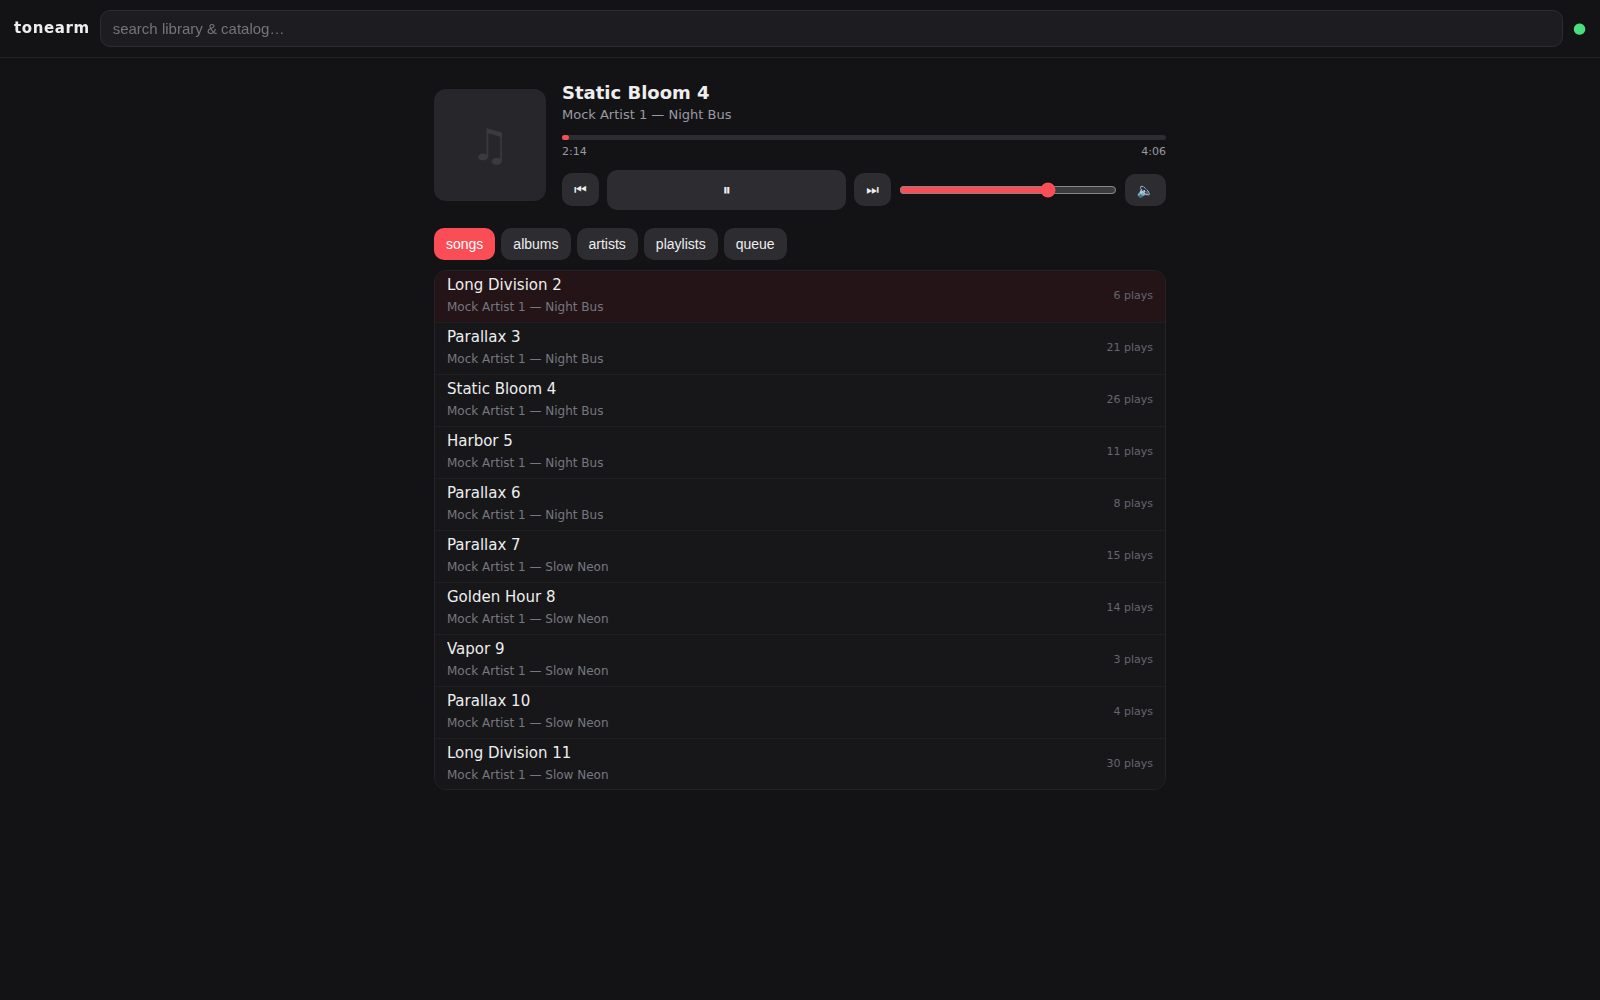
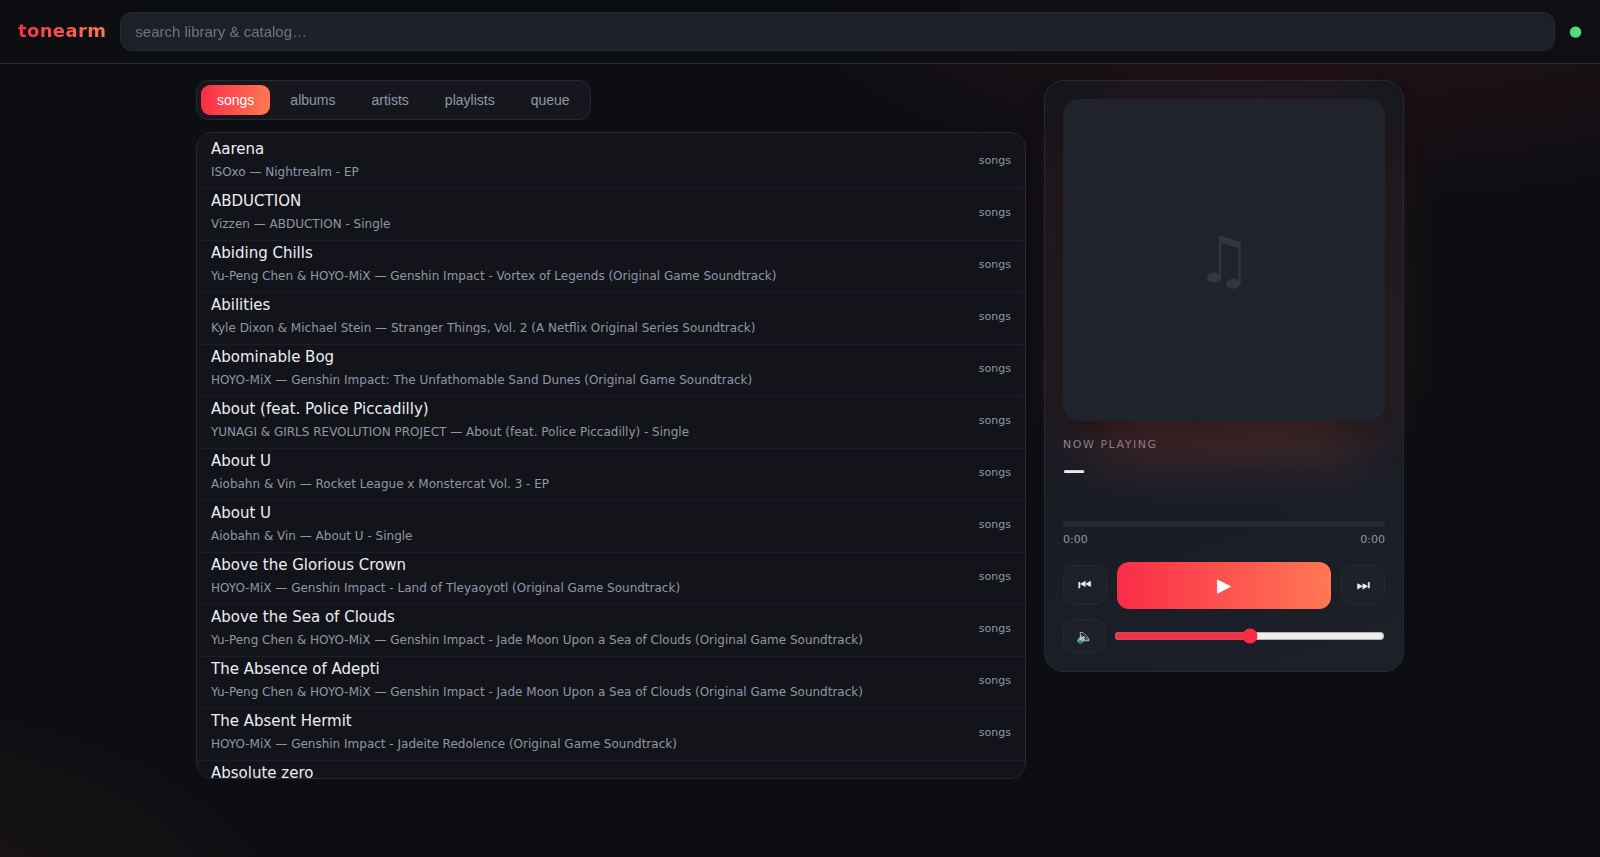
watcher: collab-name mapping fallback + artwork rows + the real screenshot
Live verification against a real account (the gate v0.6 shipped behind):

* name-search mapping WORKS: first two real passes mapped 131/157
  library artists (83%). Every hard miss was a COLLABORATION string
  ('Alan Walker & Ava Max') — no catalog artist has that name. Fix:
  candidates = full name, then the PRIMARY (first-listed) artist — the
  collab's release page is the primary's. Solo names map ~always.
* Apple's 429 wall is real and close: ~2 catalog calls/artist puts a
  few hundred searches in a rate-limit window fast. watcher_max_artists
  stays 100/pass (the brief 300 bump met the wall mid-pass; the 429s
  surface honestly and those artists retry next pass).
* PWA rows show artwork thumbnails now (40px, lazy decode, graceful
  ♫ fallback) — the API always had the URLs, the rows never rendered
  them. Also fixes a self-inflicted restyle bug: CSS rows went to 56px
  while vlist math stayed at 52 (drift); both are 56 now.
* web/screenshot.py — refreshes docs/pwa.png through a throwaway
  headless chrome (separate port/temp profile): injects the API key
  into localStorage, reloads, captures. The new docs/pwa.png is the
  REAL PWA running the REAL library (ISOxo's Nightrealm on the hero).

diff --git a/web/src/vlist.js b/web/src/vlist.js
@@ -1,7 +1,7 @@
 // Virtualized list (#85): the DOM lies — only the visible window renders.
 // Pages append from the API's next_offset contract as the scroll nears the
-// end. rowHeight is fixed (52px, styles.css) — absolute positioning math
-// stays trivial.
+// end. rowHeight is fixed (56px, styles.css must match) — absolute
+// positioning math stays trivial.
 export class VList {
   constructor(container, renderRow) {
     this.el = container;
@@ -9,7 +9,7 @@ export class VList {
     this.rows = [];               // loaded items
     this.nextOffset = 0;          // next page offset to fetch
     this.eof = false;             // no more pages
-    this.rowH = 52;
+    this.rowH = 56;
     this._fetching = false;
     this._onScroll = this.onScroll.bind(this);
     this.el.addEventListener("scroll", this._onScroll, { passive: true });

diff --git a/web/src/views/library.js b/web/src/views/library.js
@@ -11,7 +11,10 @@ function rowHtml(item) {
   const sub = [item.artist, item.album].filter(Boolean).join(" — ");
   const badge = item.play_count != null ? `${item.play_count} plays` :
                 (item.type || "").replace(/^library-/, "");
-  return `<div class="t"><b>${esc(item.name)}</b>` +
+  const art = item.artwork
+    ? `<img class="thumb" src="${esc(item.artwork)}" alt="" decoding="async">`
+    : `<span class="thumb thumb-empty">♫</span>`;
+  return `${art}<div class="t"><b>${esc(item.name)}</b>` +
          `<span>${esc(sub)}</span></div><span class="badge">${esc(badge)}</span>`;
 }
 

diff --git a/web/styles.css b/web/styles.css
@@ -164,6 +164,13 @@ h1 {
 }
 .row .t span { color: var(--dim); font-size: 12px; }
 .row .badge { color: var(--dim); font-size: 11px; }
+.thumb {
+  width: 40px; height: 40px; border-radius: 7px; object-fit: cover;
+  flex: none; background: var(--panel2);
+}
+.thumb-empty {
+  display: grid; place-items: center; color: #3a3f4c; font-size: 16px;
+}
 .row.dragging { opacity: .4; }
 .row.dropbefore { box-shadow: inset 0 2px 0 var(--accent); }
 .queue-row { cursor: grab; }

diff --git a/web/screenshot.py b/web/screenshot.py
@@ -1,0 +1,104 @@
+"""Refresh docs/pwa.png — a real screenshot of the PWA shell.
+
+Drives a THROWAWAY headless Chrome (separate port, temp profile — never
+tonearm's own renderer) over raw CDP:
+  1. load the tonearm origin
+  2. inject the API key into localStorage (the PWA's auth dialect)
+  3. reload, wait for the SSE snapshot + library to render
+  4. capture the viewport
+
+Usage: python3 web/screenshot.py [base_url] [api_key] [out_path]
+  base_url defaults to http://127.0.0.1:8200 (localhost only — the
+  screenshot never needs the tunnel), key defaults to TONEARM_API_KEY.
+"""
+import base64
+import json
+import os
+import sys
+import tempfile
+import time
+import urllib.request
+
+import websocket
+
+BASE = sys.argv[1] if len(sys.argv) > 1 else "http://127.0.0.1:8200"
+KEY = sys.argv[2] if len(sys.argv) > 2 else os.environ.get("TONEARM_API_KEY", "")
+OUT = sys.argv[3] if len(sys.argv) > 3 else os.path.join(
+    os.path.dirname(os.path.dirname(os.path.abspath(__file__))),
+    "docs", "pwa.png")
+PORT = 9333
+
+
+def cdp_http(path, method="GET"):
+    req = urllib.request.Request(f"http://127.0.0.1:{PORT}{path}",
+                                 method=method)
+    return json.loads(urllib.request.urlopen(req, timeout=10).read())
+
+
+def wait_server(proc, timeout=30):
+    deadline = time.time() + timeout
+    while time.time() < deadline:
+        if proc.poll() is not None:
+            raise SystemExit("screenshot chrome died on startup")
+        try:
+            cdp_http("/json/version")
+            return
+        except Exception:
+            time.sleep(0.4)
+    raise SystemExit("screenshot chrome never opened the debug port")
+
+
+def main():
+    import subprocess
+    profile = tempfile.mkdtemp(prefix="tonearm-shot-")
+    proc = subprocess.Popen([
+        "google-chrome", f"--user-data-dir={profile}",
+        f"--remote-debugging-port={PORT}", "--no-sandbox", "--disable-gpu",
+        "--headless=new", f"--window-size=1600,1000", "--hide-scrollbars",
+        "about:blank"],
+        stdout=subprocess.DEVNULL, stderr=subprocess.DEVNULL)
+    wait_server(proc)
+    try:
+        tabs = cdp_http("/json/list")
+        ws_url = next(t["webSocketDebuggerUrl"] for t in tabs
+                      if t.get("type") == "page")
+        ws = websocket.create_connection(ws_url, timeout=30,
+                                         max_size=100 * 1024 * 1024)
+        n = [0]
+
+        def call(method, deadline_s=30, **params):
+            n[0] += 1
+            deadline = time.time() + deadline_s
+            ws.send(json.dumps({"id": n[0], "method": method,
+                                "params": params}))
+            while time.time() < deadline:
+                try:
+                    msg = json.loads(ws.recv())
+                except websocket.WebSocketTimeoutException:
+                    continue        # recv slice expired — check the deadline
+                if msg.get("id") == n[0]:
+                    if "error" in msg:
+                        raise RuntimeError(f"{method}: {msg['error']}")
+                    return msg.get("result", {})
+            raise RuntimeError(f"{method} timed out")
+
+        call("Page.enable")
+        call("Page.navigate", url=BASE + "/")
+        time.sleep(4)                       # shell + first fetches
+        if KEY:
+            call("Runtime.evaluate", returnByValue=True,
+                 expression=f"localStorage.setItem('tonearm_key', {json.dumps(KEY)})")
+            call("Page.navigate", url=BASE + "/")   # reload with the key
+        time.sleep(10)                      # SSE snapshot + library render
+        shot = call("Page.captureScreenshot", format="png")["data"]
+        with open(OUT, "wb") as f:
+            f.write(base64.b64decode(shot))
+        print(f"screenshot -> {OUT} ({len(shot)} b64 chars)")
+        ws.close()
+    finally:
+        proc.terminate()
+        proc.wait(timeout=10)
+
+
+if __name__ == "__main__":
+    main()

diff --git a/tonearm/watcher.py b/tonearm/watcher.py
@@ -32,6 +32,7 @@ Design rules, the encoded kind:
 * Never raises: a failed pass logs and waits for the next cadence.
 """
 import logging
+import re
 import threading
 import time
 import unicodedata
@@ -44,6 +45,23 @@ FIRST_RUN_DELAY_S = 60       # let the renderer come up before the first pass
 
 ALBUMS_PER_ARTIST = 10       # newest-N albums fetched per artist per pass
 TRACKS_PER_ADD_CAP = 100     # auto-add never POSTs more than a page
+
+# library "artists" are often COLLABORATIONS ("Alan Walker & Ava Max") —
+# no catalog artist has that name. The release page a collab lands on is
+# the PRIMARY (first-listed) artist's, so the mapping falls back to the
+# first segment (verified live: solo names map ~always; bare full-name
+# search mapped 55/100 — nearly every miss was an "&"/"," string)
+_COLLAB_SPLIT = re.compile(r"\s*(?:&|,|feat\.?|ft\.?|with|x)\s+", re.I)
+
+
+def name_candidates(name):
+    """Full name first, then the primary (first-listed) artist of a collab
+    string — nothing else: segments after the first are guests."""
+    parts = _COLLAB_SPLIT.split(name or "", 1)
+    out = [name] if (name or "").strip() else []
+    if len(parts) > 1 and parts[0].strip():
+        out.append(parts[0].strip())
+    return out
 
 
 def norm_name(s):
@@ -159,21 +177,24 @@ class ReleaseWatcher(threading.Thread):
     def _catalog_artist(self, artist_id, name):
         """The mapping, cached in the store (negative results are retried
         next pass — a name search can fail on a blip; a WRONG match must
-        not be cached: only a strict name match lands)."""
+        not be cached: only a strict name match lands). Collab strings
+        fall back to their primary artist (see name_candidates)."""
         state = self.store.watcher_artist(artist_id)
         if state and state.get("catalog_artist_id"):
             return state["catalog_artist_id"]
-        hits = self._mk.api_music(
-            f"/v1/catalog/us/search?term={_urlquote(name)}"
-            f"&types=artists&limit=5").get("results", {}).get("artists", {})\
-            .get("data", [])
-        want = norm_name(name)
-        for h in hits:
-            if norm_name((h.get("attributes") or {}).get("name")) == want:
-                self.store.watcher_upsert_artist(
-                    artist_id, name, catalog_artist_id=h["id"],
-                    catalog_artist_name=(h.get("attributes") or {}).get("name"))
-                return h["id"]
+        for candidate in name_candidates(name):
+            hits = self._mk.api_music(
+                f"/v1/catalog/us/search?term={_urlquote(candidate)}"
+                f"&types=artists&limit=5").get("results", {})\
+                .get("artists", {}).get("data", [])
+            want = norm_name(candidate)
+            for h in hits:
+                if norm_name((h.get("attributes") or {}).get("name")) == want:
+                    self.store.watcher_upsert_artist(
+                        artist_id, name, catalog_artist_id=h["id"],
+                        catalog_artist_name=(h.get("attributes") or {})
+                        .get("name"))
+                    return h["id"]
         # honest miss: record the attempt so /api/watcher can show it
         self.store.watcher_upsert_artist(artist_id, name)
         return None

diff --git a/tonearm/config.py b/tonearm/config.py
@@ -114,7 +114,10 @@ class Config:
                                                "86400"))
     # Bound the catalog work per pass: at most this many artists get a
     # catalog lookup each pass (walked in library order); mappings are
-    # cached, so later passes rotate through the rest.
+    # cached, so later passes rotate through the rest. Verified live:
+    # ~2 catalog calls/artist, and Apple's 429 wall sits at a few hundred
+    # searches in a window — 100/pass daily sweeps a 1.4k-artist library
+    # in ~2 weeks WITHOUT tripping it. Raise it and you'll meet the wall.
     watcher_max_artists: int = int(os.environ.get("TONEARM_WATCHER_MAX_ARTISTS",
                                                   "100"))
     # Optional auto-add (#108): newest release's tracks are appended to this
